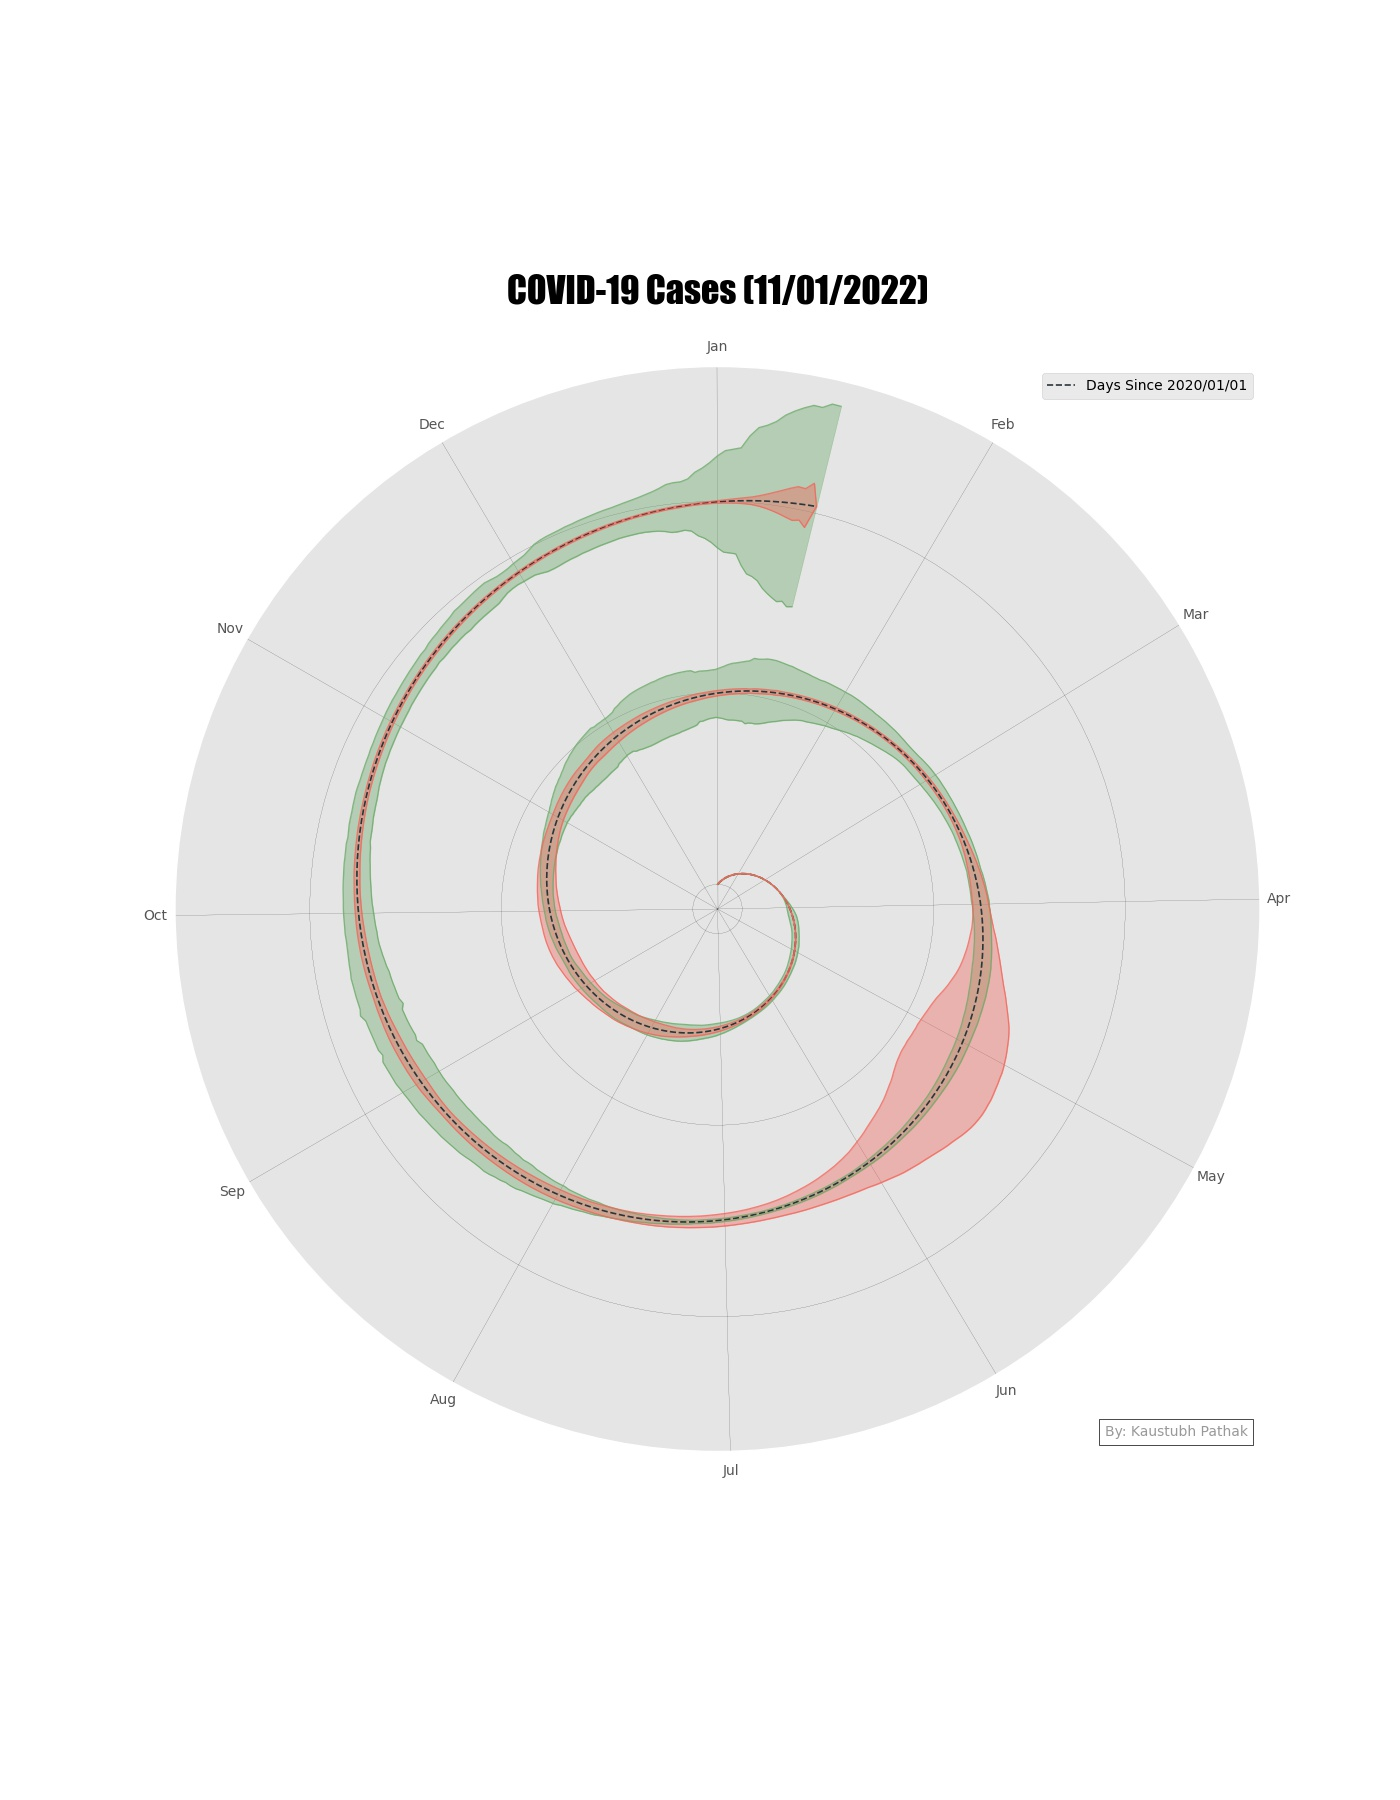
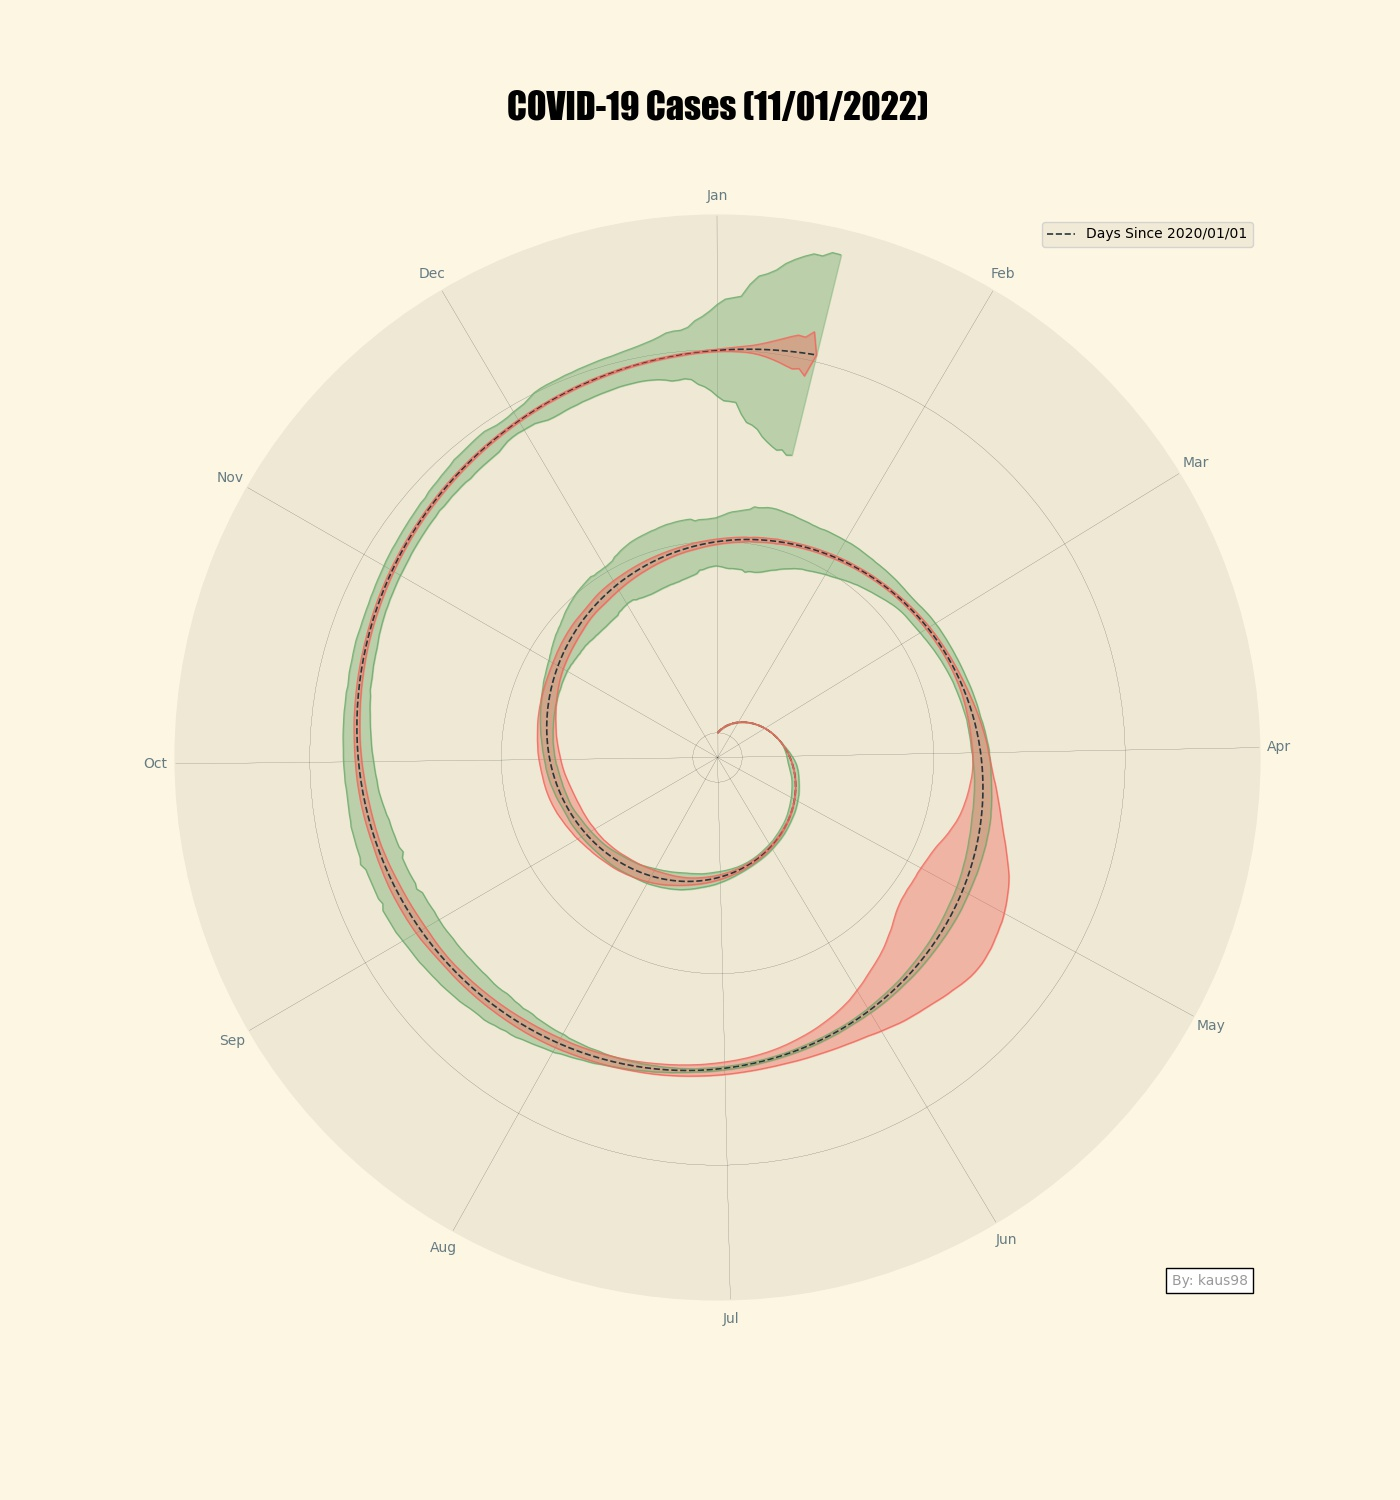
Added New Fiesl

diff --git a/core/graphs.py b/core/graphs.py
@@ -3,7 +3,7 @@ import numpy as np
 import os, json
 import matplotlib.pyplot as plt
 from matplotlib.pyplot import text
-plt.style.use("ggplot")
+plt.style.use("fivethirtyeight")
 
 import matplotlib.cm as cm 
 from matplotlib.offsetbox import AnchoredText
@@ -16,7 +16,7 @@ def get_graph_base(max_n: int,
     angles = pd.Series(np.linspace(0, 2*np.pi*(max_n/365) , max_n))
     radius = pd.Series(list(range(max_n))) + offset_radius
     
-    fig = plt.figure(figsize=(14,18)) 
+    fig = plt.figure(figsize=(14,17.4)) 
     ax = fig.add_subplot(111, polar=True)
     
     ax.set_theta_direction(-1) # Make Graph go Clockwise 
@@ -28,12 +28,12 @@ def get_graph_base(max_n: int,
     ax.grid(True, color = "#000000", linewidth = "0.1", linestyle = "solid" )
     
     # Making the Base Spiral Line 
-    ax.plot(angles, radius, "--", color = line_color, linewidth = "1.2", label = "Days Since 2020/01/01")
+    ax.plot(angles, radius, color = line_color, linewidth = "1.5", label = "Days Since 2020/01/01")
     ax.legend(loc = "upper right")
     ancor_text = AnchoredText(ancor_text, loc = "lower right", prop=dict(alpha=0.4)) # Adding the Watermark Text
     ax.add_artist(ancor_text)
     
-    ax.set_title("COVID-19 Cases (11/01/2022)", y = 1.05, fontdict={"fontsize":26, "fontname": "impact"}) # Setting the Title
+    ax.set_title("COVID-19 Cases (11/01/2022)", y = 1.08, fontdict={"fontsize":26, "fontname": "impact"}) # Setting the Title
     return fig, ax, angles, radius
 
 def spiral_graph_with_fill(dfs: list,
@@ -76,7 +76,19 @@ def spiral_graph_with_fill_single(dfs: list,
     
     return fig
 
+def spiral_graph(dfs: list,
+                           col: str, 
+                           refactor: float,
+                           colors: list,
+                           isos: list, 
+                           line_color: str
+                           ):
+    
+    assert len(dfs) == len(colors)
+    max_n = dfs[0]["days_passed"].max()+1
+    fig, ax, angles, radius = get_graph_base(max_n, line_color)
 
+    return fig
         
 def spiral_graph_with_bars(dfs: list,
                            col: str, 

diff --git a/main.py b/main.py
@@ -1,4 +1,4 @@
-from core.graphs import get_graph_base, spiral_graph_with_fill, spiral_graph_with_fill_single, spiral_graph_with_bars
+from core.graphs import get_graph_base, spiral_graph_with_fill, spiral_graph_with_fill_single, spiral_graph_with_bars, spiral_graph
 from core.data_preprocessing import download_covid_data, preprocess_data
 
 import pandas as pd
@@ -15,12 +15,12 @@ def create_graph(isos: list,
         dfs.append(pd.read_csv(f"data/{iso}_Data.csv"))
     
     fig = spiral_graph_with_fill(dfs,col = col, refactor=refactor, isos=isos, colors = colors, line_color = line_color)
-    fig.savefig("graphs/sample.jpg")
+    fig.savefig("graphs/nystyle_usa_.jpg")
 
 if __name__ == '__main__':
-    isos = ["USA", "IND"]
+    isos = ["USA"]
     path = "/home/lenovo_e14/Documents/RKTN/spiral/data/Covid_Data.csv"
     
     download_covid_data(path)
     preprocess_data(path,isos)
-    create_graph(isos)
+    create_graph(isos, colors=["#f2665c"])

diff --git a/README.md b/README.md
@@ -65,7 +65,7 @@ def get_graph_base(max_n: int,
     angles = pd.Series(np.linspace(0, 2*np.pi*(max_n/365) , max_n))
     radius = pd.Series(list(range(max_n))) + offset_radius
     
-    fig = plt.figure(figsize=(14,18)) 
+    fig = plt.figure(figsize=(14,15)) 
     ax = fig.add_subplot(111, polar=True)
     
     ax.set_theta_direction(-1) # Make Graph go Clockwise 
@@ -82,7 +82,9 @@ def get_graph_base(max_n: int,
     ancor_text = AnchoredText(ancor_text, loc = "lower right", prop=dict(alpha=0.4)) # Adding the Watermark Text
     ax.add_artist(ancor_text)
     
-    ax.set_title("COVID-19 Cases (11/01/2022)", y = 1.05, fontdict={"fontsize":26, "fontname": "impact"}) # Setting the title
-
+    ax.set_title("COVID-19 Cases (11/01/2022)", y = 1.08, fontdict={"fontsize":26, "fontname": "impact"}) # Setting the Title
     return fig, ax, angles, radius
+
 ```
+This will give us plain Spiral Graph without any covid Markers.
+![Plain Spiral Graph](graphs/plain_spiral_graph.jpg)
